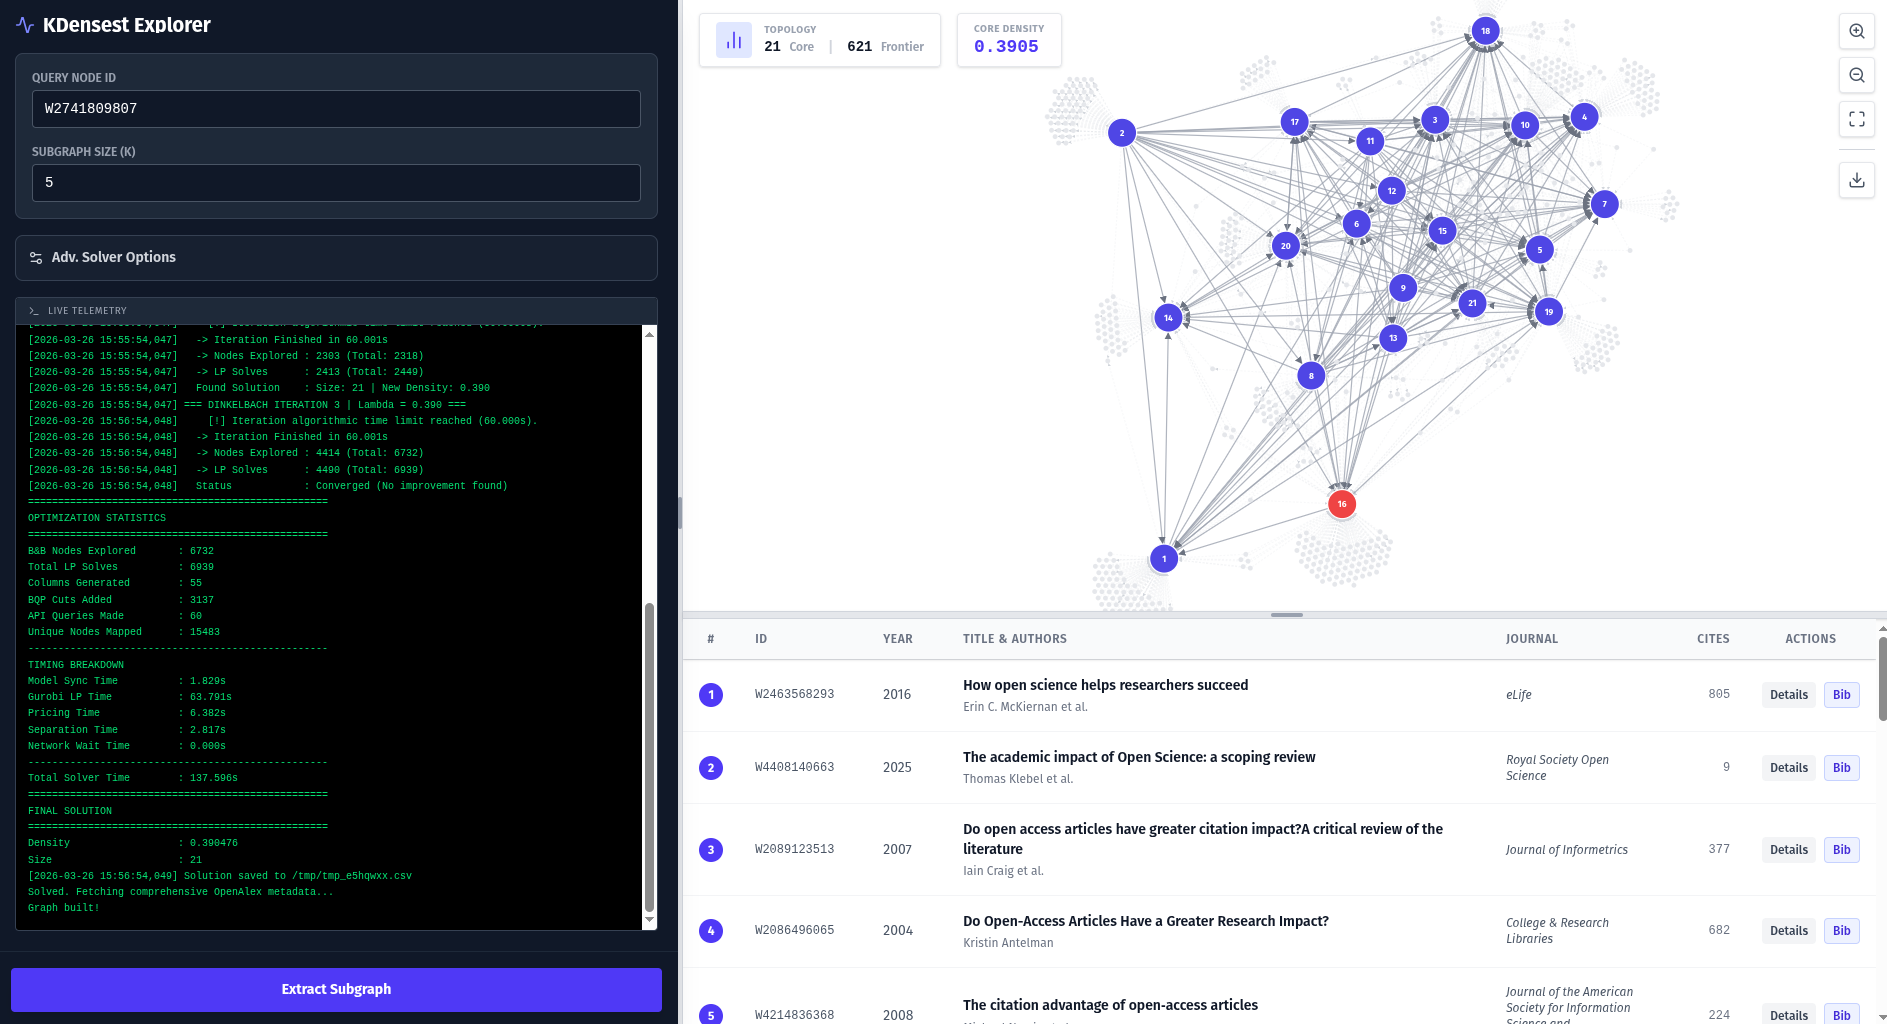
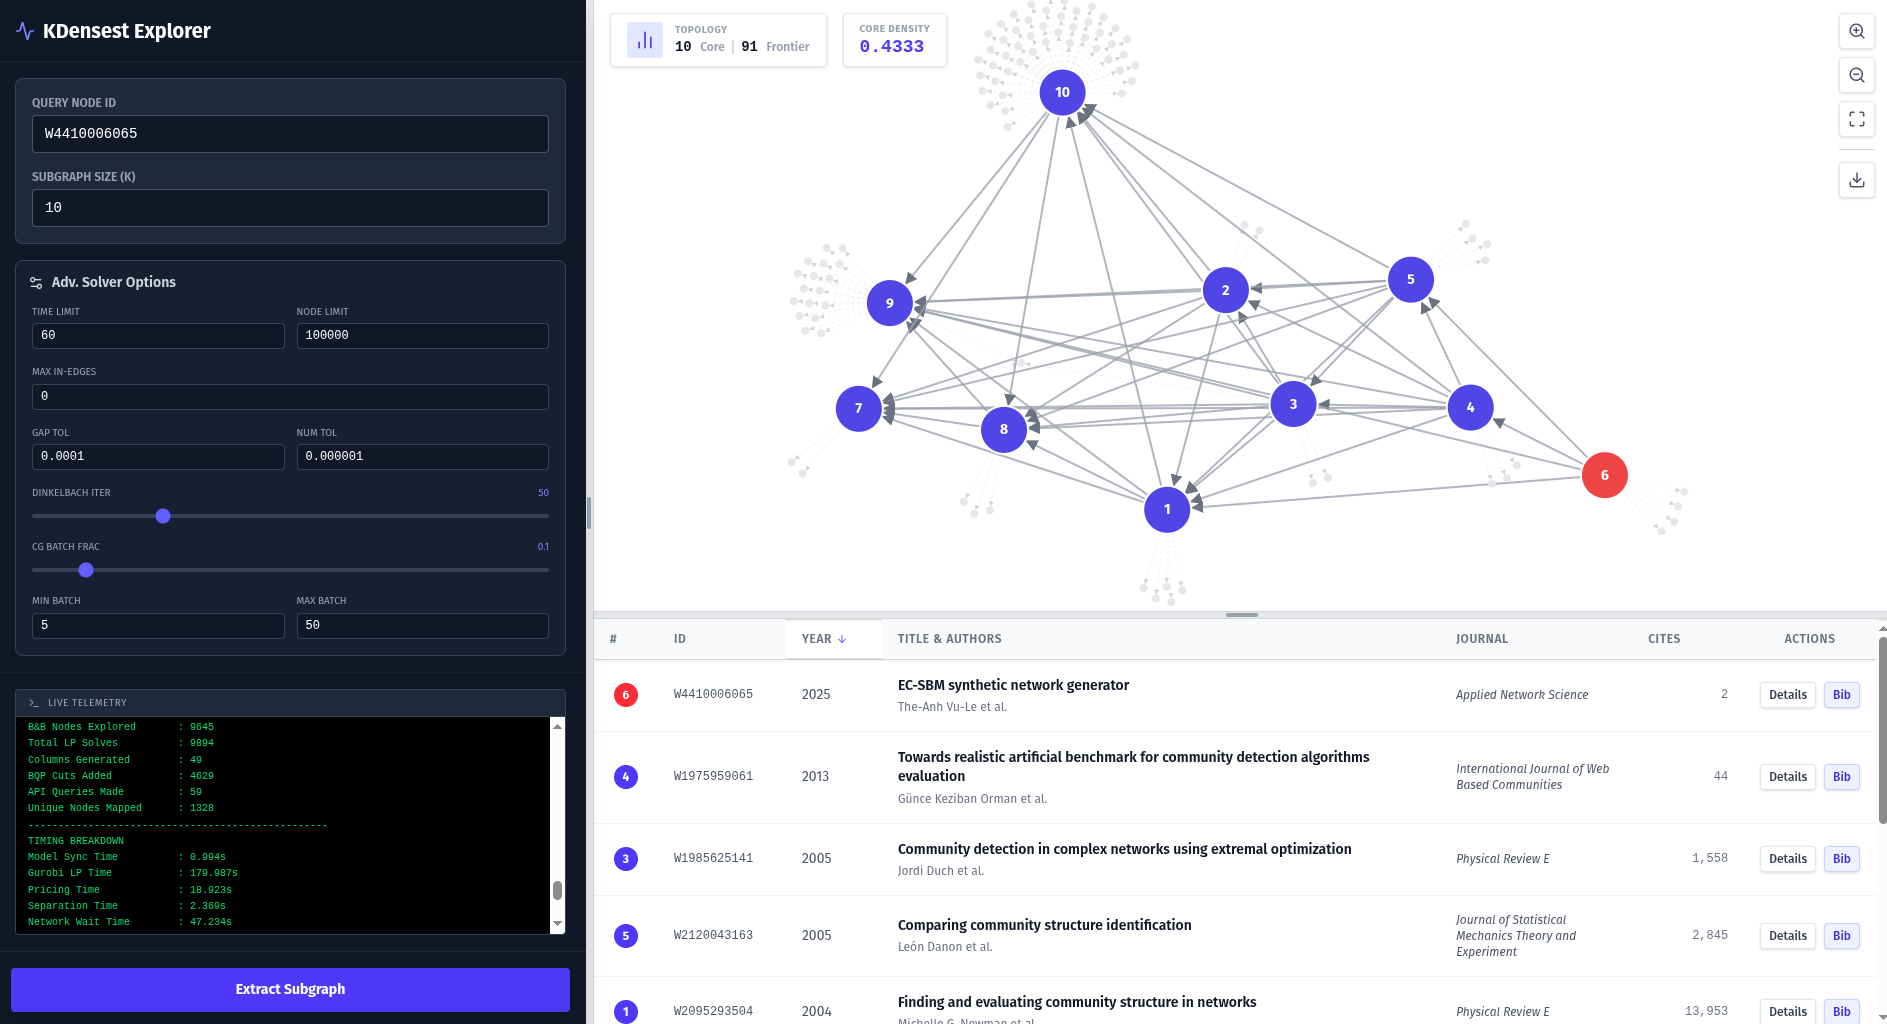
update sitebar

diff --git a/kdensest-gui/src/components/Sidebar.jsx b/kdensest-gui/src/components/Sidebar.jsx
@@ -3,6 +3,7 @@ import { Activity, Terminal, Settings2, Square } from 'lucide-react';
 
 export default function Sidebar({ width, params, setParams, logs, loading, onExtract, onStop }) {
   const logsEndRef = useRef(null);
+  
   useEffect(() => {
     if (logsEndRef.current) logsEndRef.current.scrollIntoView({ behavior: 'smooth' });
   }, [logs]);
@@ -10,12 +11,17 @@ export default function Sidebar({ width, params, setParams, logs, loading, onExt
   const set = (key) => (e) => setParams(prev => ({ ...prev, [key]: e.target.value }));
 
   return (
-    <div style={{ width: `${width}px` }} className="bg-gray-900 text-white flex flex-col overflow-hidden shrink-0 shadow-xl z-20">
-      <div className="p-5 overflow-y-auto flex-grow flex flex-col custom-scrollbar min-w-[200px]">
-        <h1 className="text-xl font-bold mb-5 flex items-center gap-2 truncate">
+    <div style={{ width: `${width}px` }} className="bg-gray-900 text-white flex flex-col h-full overflow-hidden shrink-0 shadow-xl z-20">
+      
+      {/* 1. FIXED HEADER */}
+      <div className="px-5 pt-5 pb-4 shrink-0 border-b border-gray-800/80">
+        <h1 className="text-xl font-bold flex items-center gap-2 truncate">
           <Activity size={20} className="text-indigo-400 shrink-0"/> KDensest Explorer
         </h1>
+      </div>
 
+      {/* 2. FULLY EXPANDING OPTIONS (No Scrollbar) */}
+      <div className="px-5 py-4 shrink-0 flex flex-col gap-4 border-b border-gray-800/50">
         <div className="space-y-4 shrink-0 bg-gray-800 p-4 rounded-lg border border-gray-700">
           <div>
             <label className="block text-gray-400 text-xs font-semibold uppercase mb-1">Query Node ID</label>
@@ -27,7 +33,7 @@ export default function Sidebar({ width, params, setParams, logs, loading, onExt
           </div>
         </div>
 
-        <details className="mt-4 border border-gray-700 rounded-lg bg-gray-800/50 group">
+        <details className="border border-gray-700 rounded-lg bg-gray-800/50 group shrink-0">
           <summary className="text-gray-300 font-semibold p-3 select-none hover:text-white cursor-pointer flex items-center gap-2">
             <Settings2 size={16}/> Adv. Solver Options
           </summary>
@@ -37,7 +43,7 @@ export default function Sidebar({ width, params, setParams, logs, loading, onExt
               <div><label className="block text-gray-400 text-[10px] uppercase mb-1">Node Limit</label><input type="number" step="1000" value={params.nodeLimit} onChange={set('nodeLimit')} className="w-full bg-gray-900 border border-gray-700 rounded px-2 py-1 text-white font-mono text-xs" /></div>
             </div>
             <div>
-              <label className="block text-gray-400 text-[10px] uppercase mb-1">Max In-Edges (API Limit)</label>
+              <label className="block text-gray-400 text-[10px] uppercase mb-1">Max In-Edges</label>
               <input type="number" step="500" value={params.maxInEdges} onChange={set('maxInEdges')} className="w-full bg-gray-900 border border-gray-700 rounded px-2 py-1 text-white font-mono text-xs" />
             </div>
             <div className="grid grid-cols-2 gap-3">
@@ -57,17 +63,21 @@ export default function Sidebar({ width, params, setParams, logs, loading, onExt
               <input type="range" min="0.01" max="1.0" step="0.01" value={params.cgBatchFrac} onChange={set('cgBatchFrac')} className="w-full accent-indigo-500 h-1 bg-gray-700 rounded-lg appearance-none cursor-pointer" />
             </div>
             <div className="grid grid-cols-2 gap-3">
-              <div><label className="block text-gray-400 text-[10px] uppercase mb-1">CG Min Batch</label><input type="number" value={params.cgMinBatch} onChange={set('cgMinBatch')} className="w-full bg-gray-900 border border-gray-700 rounded px-2 py-1 text-white font-mono text-xs" /></div>
-              <div><label className="block text-gray-400 text-[10px] uppercase mb-1">CG Max Batch</label><input type="number" value={params.cgMaxBatch} onChange={set('cgMaxBatch')} className="w-full bg-gray-900 border border-gray-700 rounded px-2 py-1 text-white font-mono text-xs" /></div>
+              <div><label className="block text-gray-400 text-[10px] uppercase mb-1">Min Batch</label><input type="number" value={params.cgMinBatch} onChange={set('cgMinBatch')} className="w-full bg-gray-900 border border-gray-700 rounded px-2 py-1 text-white font-mono text-xs" /></div>
+              <div><label className="block text-gray-400 text-[10px] uppercase mb-1">Max Batch</label><input type="number" value={params.cgMaxBatch} onChange={set('cgMaxBatch')} className="w-full bg-gray-900 border border-gray-700 rounded px-2 py-1 text-white font-mono text-xs" /></div>
             </div>
           </div>
         </details>
+      </div>
 
-        <div className="mt-4 flex flex-col flex-grow min-h-[180px] border border-gray-700 rounded bg-black shadow-inner overflow-hidden">
+      {/* 3. HIGHLY COMPRESSIBLE TERMINAL */}
+      {/* min-h-0 allows the container to compress infinitely when pushed by the options above */}
+      <div className="px-5 py-4 flex flex-col flex-grow overflow-hidden min-h-0">
+        <div className="flex flex-col flex-grow border border-gray-700 rounded bg-black shadow-inner overflow-hidden min-h-0">
           <div className="bg-gray-800 px-3 py-1.5 text-[10px] text-gray-400 uppercase tracking-wider flex items-center gap-2 border-b border-gray-700 shrink-0">
             <Terminal size={12}/> Live Telemetry
           </div>
-          <div className="p-3 overflow-y-auto font-mono text-[10px] text-green-400 leading-relaxed flex-grow whitespace-nowrap">
+          <div className="p-3 overflow-y-auto custom-scrollbar font-mono text-[10px] text-green-400 leading-relaxed flex-grow whitespace-nowrap min-h-0">
             {logs.map((log, idx) => <div key={idx} className="whitespace-pre-wrap">{log}</div>)}
             {loading && <span className="animate-pulse text-green-500">_</span>}
             <div ref={logsEndRef} />
@@ -75,13 +85,14 @@ export default function Sidebar({ width, params, setParams, logs, loading, onExt
         </div>
       </div>
 
+      {/* 4. FIXED FOOTER */}
       <div className="p-4 border-t border-gray-800 shrink-0 bg-gray-900 flex gap-2">
         {!loading ? (
-          <button onClick={onExtract} className="w-full py-3 rounded font-bold shadow-lg bg-indigo-600 hover:bg-indigo-500 text-white hover:shadow-indigo-500/20">Extract Subgraph</button>
+          <button onClick={onExtract} className="w-full py-3 rounded font-bold shadow-lg bg-indigo-600 hover:bg-indigo-500 text-white hover:shadow-indigo-500/20 transition-all">Extract Subgraph</button>
         ) : (
           <>
             <button disabled className="flex-1 py-3 rounded font-bold bg-indigo-900 text-indigo-300 cursor-not-allowed flex items-center justify-center gap-2"><span className="animate-pulse">Computing...</span></button>
-            <button onClick={onStop} className="px-5 py-3 rounded font-bold bg-red-600 hover:bg-red-500 text-white shadow-lg flex items-center justify-center"><Square size={16} fill="currentColor"/></button>
+            <button onClick={onStop} className="px-5 py-3 rounded font-bold bg-red-600 hover:bg-red-500 text-white shadow-lg flex items-center justify-center transition-all"><Square size={16} fill="currentColor"/></button>
           </>
         )}
       </div>
